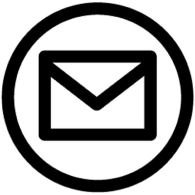
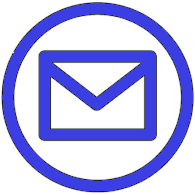
problemwithproblems?

diff --git a/src/app/page.tsx b/src/app/page.tsx
@@ -10,6 +10,9 @@ import Sertifikat_NPK_EARPP_RO_23 from '../../public/Sertifikat_NPK_EARPP_RO-San
 import Udostoverenie_GTsOZ_Magistr_2023 from '../../public/Udostoverenie_GTsOZ_Magistr_2023/Udostoverenie_GTsOZ_Magistr_2023_page-0001.jpg'
 import Udostoverenie_ISPiP_Yan_Fyodorov_2021 from '../../public/Udostoverenie_ISPiP_Yan_Fyodorov_2021/Udostoverenie_ISPiP_Yan_Fyodorov_2021_page-0001.jpg'
 import Udostoverenie_NIPKiPRO_2024 from '../../public/Udostoverenie_NIPKiPRO_2024/Udostoverenie_NIPKiPRO_2024_page-0001.jpg'
+import tg from "../../public/tg.png"
+import ws from "../../public/wp.png"
+import em from "../../public/email.png"
 import { motion } from "motion/react"
 import online from "../../public/fornat/online.webp"
 import offline from "../../public/fornat/offline.png"
@@ -36,7 +39,7 @@ export default function Home() {
   // const educationRef = useRef<HTMLDivElement>(null);
   // const workFormRef = useRef<HTMLDivElement>(null);
   const teleRef = useRef<HTMLSpanElement>(null);
-  // const emailRef = useRef<HTMLSpanElement>(null);
+  const emailRef = useRef<HTMLSpanElement>(null);
   const tgRef = useRef<HTMLSpanElement>(null);
   const [img, setImage] = useAtom(ImgAtom);
   const [isVisible, setIsVisible] = useState(false);
@@ -276,7 +279,7 @@ export default function Home() {
                   text='Я психоаналитически ориентированный психотерапевт. Являюсь членом национального отделения Европейской Ассоциации Развития Психоанализа и Психотерапии в России, ЕАРПП НО ECPP (Vienna, Austria) и членом правления регионального Новосибирского отделения ЕАРПП. Веду частную практику.'
               />
             </div>
-            <Text className='mt' place={3} text='Имею опыт работы с детьми, подростками и взрослыми. Специализируюсь на сфере отношений (партнёрские, детско-родительские, рабочие, отношение к себе) и выхода из кризисных ситуаций. В работе придерживаюсь психоаналитических принципов и этического кодекса.' />
+            <Text className='mt' place={3} text='Имею опыт работы с детьми, подростками и взрослыми. Специализируюсь на сфере отношений (партнёрские, детско-родительские, рабочие, отношение к себе) и выхода из кризисных ситуаций. В работе придерживаюсь психоаналитических принципов и этического кодекса. Очный приём веду в кабинете в центре Новосибирска, онлайн-встреча возможна из любой точки мира через современные мессенджеры' />
           <MainEdu/>
 
             {/* <div className="contacts to767">
@@ -321,6 +324,7 @@ export default function Home() {
             </div>
           </div> */}
         </div>
+        <h1 className="dopEdu">Дополнительное образование</h1>
         <ExtraEdu/>
         <div className="secondGrid ">
             <div className='text'>
@@ -338,17 +342,15 @@ export default function Home() {
                   padding: "10px"
                 }}
                 key={problem.id}
-                initial={{ x: -5, opacity: 0, scale: 0.8}}
+                initial={{opacity: 0}}
                 animate={isVisible ? {
-                  x: 0,
                   opacity: 1,
                   scale: 1,
                   backgroundPosition: ['0% 50%', '100% 50%', '0% 50%'],
                 } : {}}
                 transition={{
-                  default: { type: "spring",  damping: 10, stifness: 200},
+                  default: { type: "spring"},
                   opacity: { ease: "linear", delay: isVisible ? 0.8 + index * 0.3 : 0 },
-                  scale: { delay: isVisible ? 1 + index * 0.3 : 0 },
                   backgroundPosition: { duration: 5, ease: 'linear', repeat: Infinity, delay: index + 1 },
                 }}
               >
@@ -380,8 +382,9 @@ export default function Home() {
                   scale: 1,
                 } : {}}
                 transition={{
-                  default: { type: "spring",        stiffness: 200,
-                  damping: 10, delay: isVisible2 ? one.id * 0.8 : 0 },
+                  default: { type: "spring",
+                  stiffness: 500,
+                  damping: 50, delay: isVisible2 ? one.id * 0.8 : 0 },
                 }}
                 >
                   <Image alt={one.text}
@@ -401,13 +404,31 @@ export default function Home() {
         </div>
       </main>
       <footer>
-              <span className="pr-[100px] "
-                ref={tgRef}
-                >
-                  <a href="https://t.me/ncuxo_analiz" target="_blank" rel="noopener noreferrer">
+            <div className='zapis'>
+                <div>
+                  <Image
+                  src={tg}
+                  alt='ТГ'
+                  className='footerImage'
+                  />
+                  <a href="https://t.me/ncuxo_analiz" target="_blank" rel="noopener noreferrer" className='pl-3'>
                     Мой телеграм-канал
                   </a>
-              </span>
+                </div>
+                <div>
+                <Image
+                  src={tg}
+                  alt='ТГ'
+                  className='footerImage'
+                  />
+                  <a href="https://t.me/rpa4e8"
+                    target="_blank" 
+                    rel="noopener noreferrer" 
+                    className='pl-3'>
+                    Написать в телеграм
+                  </a>
+                </div>
+              </div>
               
               <div className="zapis">
               {popupVisible.tele ? (
@@ -415,16 +436,35 @@ export default function Home() {
               ) :
               <div className="copy_popup">Телефон скопирован</div>
               }
-                  <a href="https://t.me/rpa4e8"
-                    target="_blank" 
-                    rel="noopener noreferrer">
-                  Телеграм-аккаунт
-                  </a>
-                  <span className="text-[#3B3EE3] ml cursor-pointer"
+              <div>
+              <Image
+                  src={em}
+                  alt='ТГ'
+                  className='footerImage'
+                  />
+              <span className="cursor-pointer pl-3"
+                ref={emailRef}
+                onClick={(e) => handlePopUp(e, 'email')}>
+                rp@4e8.ru
+              </span>
+              </div>
+              {popupVisible.email ? (
+                <div className="copy_popup visible">Эл. почта скопирована</div>
+              ) :
+              <div className="copy_popup">Эл. почта скопирована</div>
+              } 
+              <div>
+              <Image
+                  src={ws}
+                  alt='WP'
+                  className='footerImage'
+                  />
+                <span className="cursor-pointer pl-3"
                 onClick={(e) => handlePopUp(e, 'tele')}
                 ref={teleRef}>
                 +7 999 466-07-17
               </span>
+              </div>
             </div>
       </footer>
     </div>

diff --git a/src/app/styles.scss b/src/app/styles.scss
@@ -24,11 +24,12 @@ main{
     grid-auto-rows: min-content;
     justify-items: center;
     align-items: start;
-    width: 100%;
+    width: 90%;
     height: auto;
+    margin: 0 auto;
 }
 .secondGrid{
-    padding: 0 5%;
+    padding: 0 3%;
     padding-top: 3ч0px;
 }
 .span2{
@@ -78,26 +79,41 @@ header{
     position: relative;
     display: flex;
     flex-direction: column;
-    justify-content: center;
-    align-items: center;
+    justify-content: start;
+    align-items: start;
     padding: 0 auto;
     gap:5px;
-    text-align: center;
-    margin-right: 50px;
+    text-align: left;
+    margin: 0 50px;
 }
 .swiper {
     width: 90%;
-    height: 260px;
-    justify-content: center;
-    align-items: center;
-    margin-top: 50px;
+    height: 300px;
+    margin-top: 10px;
     background: linear-gradient(to right, rgba(255, 255, 255, 1) 0%, rgba(209, 209, 209, 0.5) 20%, rgba(196, 196, 196,0.6) 50%, rgba(203, 203, 203, 0.5) 80%, rgba(255, 255, 255, 1) 100%);
     border-radius: 50px;
 }
 .swiper-slide{
     display: flex;
+    padding-top: 40px;
     justify-self: center;
     align-items: center;
+}
+.swiper-pagination-bullet {
+    background: #3B3EE3  !important;
+}
+
+.swiper-pagination-bullet-active {
+    background:#3B3EE3 !important;
+}
+.swiper-button-next,
+.swiper-button-prev {
+    color: #3B3EE3; 
+}
+
+.swiper-button-next:hover,
+.swiper-button-prev:hover {
+    color: #3B3EE3; 
 }
 .slImg{
     height: 220px;
@@ -136,20 +152,13 @@ header{
     opacity: 1;
     padding-left: 20px;
 }
-.name::after{
-    position: relative;
-    display: block;
-    width: 40px;
-    height: 5px;
-    background-color: #3B3EE3;
-    content: "";
-    margin-right: 50px;
-}
+
 .title_image{
     width:80%;
     border-radius: 40px;
     margin: 30px 0 0 0;
     box-shadow: 3px 4px 3px rgba(0, 0, 0, 0.3);
+    border: 3px solid #3B3EE3;
 }
 .pencil{
     position: relative;
@@ -174,7 +183,7 @@ header{
     margin-top: 10px;
 }
 .w100{
-    margin: 0 10%;
+    margin: 10% 10% 0 10%;
     text-align: center;
     text-justify: inter-word;
     padding-top: 40px;
@@ -248,6 +257,13 @@ footer{
     padding-right: 30px;
     text-shadow: 3px 2px 2px rgba(0,0,0,0.2);
 }
+.dopEdu{
+    text-shadow: 3px 2px 2px rgba(0,0,0,0.2);    font-size: clamp(rem(24), 1rem + 3vw, rem(60));    text-align: center;
+    width: 100%;
+    height: 100px;
+    margin-top: 50px;
+    color:#3B3EE3
+}
 .form_work{
     background: linear-gradient(rgba(215, 215, 215, 0.9) 50%, rgba(196, 196, 196, 0.8) 80%);
     width: 100%;
@@ -257,8 +273,6 @@ footer{
     text-align: center;
     margin: 40px 0;
     color:#3B3EE3;
-    box-shadow: 7px 9px 6px rgba(0, 0, 0, 0.2);
-    text-shadow: 3px 5px 3px rgba(0, 0, 0, 0.2);
 }
 .form{
     display: flex;
@@ -339,6 +353,11 @@ footer{
 }
 .under768, .under568{
     display: none;
+}
+.footerImage{
+    display: inline-block;
+    width: 40px;
+    height: auto;
 }
 .layout{
     width: 100%;
@@ -439,7 +458,7 @@ footer{
 
 @media (max-width:2300px) {
     .text, .ListItemText{
-        font-size: rem(40);
+        font-size: rem(32);
     }
     h1{
         font-size: rem(56);
@@ -503,7 +522,7 @@ footer{
     }
     
     .text{
-        font-size: rem(28);
+        font-size: rem(26);
         width: 80%;
     }
     .edu,.work{
@@ -555,7 +574,7 @@ footer{
         font-size: rem(32);
     }
     .text{
-        font-size: rem(22);
+        font-size: rem(20);
     }
     
 }
@@ -576,7 +595,7 @@ footer{
         font-size: rem(32);
     }
     .text, .ListItemText{
-        font-size: rem(24);
+        font-size: rem(18);
     }
     .edu,.work{
         font-size: rem(20);
@@ -639,7 +658,7 @@ footer{
         padding: 0 auto;
     }
     .edu,.work, .text{
-        font-size: rem(22);
+        font-size: rem(16);
     }
     h1{
         padding-left: 30px;
@@ -731,9 +750,7 @@ footer{
         font-size: rem(28);
     }
     .text, .ListItemText{
-        font-size: rem(18);
-        padding-left: 2px;
-        padding-right: 2px;
+        font-size: rem(14);
     }
     .edu, .work{
         font-size: rem(20);

diff --git a/src/app/components/ExtraEdu.tsx b/src/app/components/ExtraEdu.tsx
@@ -8,10 +8,11 @@ import Udostoverenie_ISPiP_Yan_Fyodorov_2021 from '../../../public/Udostoverenie
 import Udostoverenie_NIPKiPRO_2024 from '../../../public/Udostoverenie_NIPKiPRO_2024/Udostoverenie_NIPKiPRO_2024_page-0001.jpg'
 import "../styles.scss"
 import Image from 'next/image';
-import { Pagination, Autoplay } from 'swiper/modules';
+import { Pagination, Autoplay, Navigation } from 'swiper/modules';
 import { Swiper, SwiperSlide } from 'swiper/react';
 import 'swiper/css';
 import 'swiper/css/pagination'; 
+import "swiper/css/navigation";
 import { useAtom } from 'jotai'
 import { ImgAtom } from './MainEdu'
 
@@ -71,13 +72,14 @@ export const ExtraEdu =() => {
         centeredSlides={true} 
         
         autoplay={{
-            delay: 1500,
+            delay: 3000,
             disableOnInteraction: false,
         }}
         pagination={{
             clickable: true,
         }}
-        modules={[Pagination, Autoplay]}>
+        navigation={true}
+        modules={[Pagination, Autoplay, Navigation]}>
         {ExtraEduSet.map((one) => (
                 <SwiperSlide key={one.id} style={{ width: 'auto', maxHeight:"210px" }}> 
                 <Image

diff --git a/src/app/components/text.tsx b/src/app/components/text.tsx
@@ -1,6 +1,5 @@
 import { useEffect, useRef, useState } from "react";
 import Typed from 'typed.js';
-import { FaPencilAlt } from "react-icons/fa";
 import { motion } from "motion/react";
 
 export default function Text({text, className, place}:{text: string, className?: string, place: number}){
@@ -66,7 +65,6 @@ export default function Text({text, className, place}:{text: string, className?:
                 }
             }}
             >
-            <FaPencilAlt className="pencil" />
             </motion.div>
         </div>
     )

diff --git a/next.config.ts b/next.config.ts
@@ -5,7 +5,7 @@ const nextConfig: NextConfig = {
 
   },
   output: 'export',
-  assetPrefix: 'https://xn--80aawcameohiwt6a.xn--41a.xn--p1acf/',
+  // assetPrefix: 'https://xn--80aawcameohiwt6a.xn--41a.xn--p1acf/',
   images:{
     unoptimized: true,
   }
